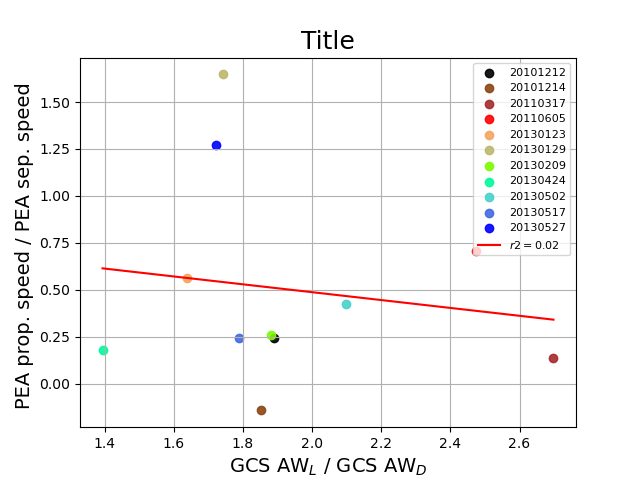
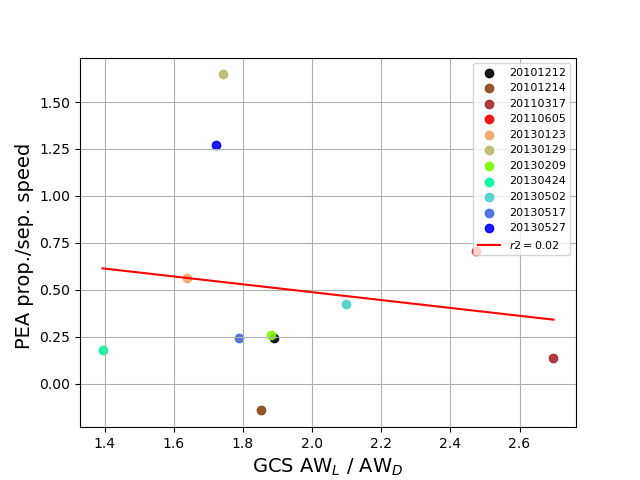
yet more plots from Hebe

Changed region(s): [[0.0, 0.1875, 0.0625, 0.8438], [0.3438, 0.9375, 0.6875, 1.0], [0.4688, 0.0625, 0.5625, 0.125]]

diff --git a/tools/cremades/compare_all_prop_hebe.py b/tools/cremades/compare_all_prop_hebe.py
@@ -113,10 +113,13 @@ os.makedirs(opath, exist_ok=True)
 
 # set requiered plots
 plot_tilt = False
-pea_prop_speed_over_pea_sep_speed_vs_gcs_lat_vel_over_gcs_axial_vel = True
+pea_prop_over_sep_speed_vs_gcs_lat_over_axial_vel = True
 pea_prop_sep_speed_ratio_vs_gcs_awl_awd_ratio = True
 pea_prop_speed_vs_gcs_awl = True
+pea_prop_speed_vs_gcs_lat_speed = True
 pea_sep_speed_vs_gcs_awd = True
+pea_sep_speed_vs_gcs_axial_speed = True
+pea_length_vs_gcs_lat_speed = False
 #lista de CMEs que no deben plotearse
 #poner el numero de ID
 #Si no queremos rechazar ninguna, poner --> None
@@ -204,12 +207,66 @@ if plot_tilt:
     plt.savefig(opath+'/scatter.png')
     plt.close()
 
+#------------------------------------------------------------------------------------------------------
+# plots PEA propagation speed / PEA separation speed VS GCS AW_L vs. GCS AW_D for each date
+if pea_prop_sep_speed_ratio_vs_gcs_awl_awd_ratio:
+    ajuste_lineal3 = True
+
+    df_ar['datetimes'] = pd.to_datetime(df_ar['Date'], format='%d/%m/%Y')
+    all_x=[]
+    all_y=[]
+    colors = ['k','saddlebrown','brown','r','sandybrown','darkkhaki','lawngreen','mediumspringgreen','mediumturquoise','royalblue','b','mediumblue']
+    labels = ['20101212','20101214','20110317','20110605','20130123','20130129','20130209','20130424','20130502','20130517','20130527','20130608']
+    for d in df_ar['datetimes']:
+        d_str = d.strftime('%Y%m%d')
+        x = np.array((df_ar.loc[df_ar['datetimes'] == d, 'gcs_awl']))
+        x /= np.array((df_ar.loc[df_ar['datetimes'] == d, 'gcs_awd']))
+        if len(x) > 1:
+            x = np.nanmean(x)
+        x = float(x)
+
+        y  = np.mean(df_arcades.loc[df_arcades['date'].dt.date == d.date(), 'length fit vel [km/s]'])
+        y /= np.mean(df_arcades.loc[df_arcades['date'].dt.date == d.date(), 'width fit vel [km/s]'])
+        all_x.append(x)
+        all_y.append(y)
+
+    all_x = all_x [0:11]
+    all_y = all_y [0:11]
+
+    all_x_filtered = drop_by_index(all_x,list_rejected_cmes_id)
+    all_y_filtered = drop_by_index(all_y,list_rejected_cmes_id)
+    colors_filtered = drop_by_index(colors,list_rejected_cmes_id)
+    labels_filtered = drop_by_index(labels,list_rejected_cmes_id)
+    #pearson coef and p-value
+    linear_regresion = scipy.stats.linregress(all_x_filtered, all_y_filtered)
+    slope = linear_regresion.slope
+    intercept = linear_regresion.intercept
+    pearson = linear_regresion.rvalue
+    r_square = pearson*pearson
+    p_value = linear_regresion.pvalue
+    stdev = linear_regresion.stderr
+
+    fig,ax = plt.subplots()
+    #ejes y titulo
+    ax.set_xlabel('GCS AW$_L$ / AW$_D$', fontsize=14)
+    ax.set_ylabel('PEA prop./sep. speed ', fontsize=14)
+    ax.set_title(' ', fontsize=18)
+    for contador in range(len(all_x_filtered)):
+        ax.scatter(all_x_filtered[contador],all_y_filtered[contador],c=colors_filtered[contador],label=labels_filtered[contador],alpha=0.9)
+
+    if ajuste_lineal3:
+        x_axis = np.linspace(np.min(all_x_filtered),np.max(all_x_filtered),10)
+        ax.plot(x_axis, intercept + slope*x_axis, 'r', label=f'$r2 = {r_square:.2f}$')
+    ax.legend(loc="upper right", prop={'size': 8})
+    ax.grid(True)
+    plt.savefig(hpath+'/pea_prop_sep_speed_ratio_vs_gcs_awl_awd_ratio')
+    plt.close()
 
 #------------------------------------------------------------------------------------------------------
 # plots PEA propagation speed/PEA separation speed VS. GCS lat vel / gcs axial vel  ---> Done Hebe
 # y vs x
 ajuste_lineal = True
-if pea_prop_speed_over_pea_sep_speed_vs_gcs_lat_vel_over_gcs_axial_vel:
+if pea_prop_over_sep_speed_vs_gcs_lat_over_axial_vel:
     df_ar['datetimes'] = pd.to_datetime(df_ar['Date'], format='%d/%m/%Y')
     all_x=[]
     all_y=[]
@@ -249,9 +306,9 @@ if pea_prop_speed_over_pea_sep_speed_vs_gcs_lat_vel_over_gcs_axial_vel:
 
     fig,ax = plt.subplots()
     #ejes y titulo
-    ax.set_xlabel('GCS lateral (L) speed / GCS axial (D) speed', fontsize=16)
-    ax.set_ylabel('PEA prop. speed / PEA sep. speed', fontsize=16)
-    ax.set_title('Title', fontsize=18)
+    ax.set_xlabel('GCS lateral (L) / axial (D) exp. speed', fontsize=14)
+    ax.set_ylabel('PEA prop. / sep. speed', fontsize=14)
+    ax.set_title(' ', fontsize=18)
     for contador in range(len(all_x_filtered)):
         ax.scatter(all_x_filtered[contador],all_y_filtered[contador],c=colors_filtered[contador],label=labels_filtered[contador],alpha=0.9)
 
@@ -260,7 +317,7 @@ if pea_prop_speed_over_pea_sep_speed_vs_gcs_lat_vel_over_gcs_axial_vel:
         ax.plot(x_axis, intercept + slope*x_axis, 'r', label=f'$r2 = {r_square:.2f}$')
     ax.legend(loc="upper right", prop={'size': 8})
     ax.grid(True)
-    plt.savefig(hpath+'/pea_prop_speed_over_pea_sep_speed_vs_gcs_lat_vel_over_gcs_axial_vel.png')
+    plt.savefig(hpath+'/pea_prop_over_sep_speed_vs_gcs_lat_over_axial_vel.png')
     plt.close()
 
 #------------------------------------------------------------------------------------------------------
@@ -315,6 +372,58 @@ if pea_prop_speed_vs_gcs_awl:
     ax.legend(loc="upper right", prop={'size': 8})
     ax.grid(True)
     plt.savefig(hpath+'/pea_prop_speed_vs_gcs_awl.png')
+    plt.close()
+#------------------------------------------------------------------------------------------------------
+# plots PEA propagation speed vs. GCS lateral (L) speed for each date  --> Done Hebe
+if pea_prop_speed_vs_gcs_lat_speed:
+    ajuste_lineal1 = False
+
+    df_ar['datetimes'] = pd.to_datetime(df_ar['Date'], format='%d/%m/%Y')
+    all_x=[]
+    all_y=[]
+    colors = ['k','saddlebrown','brown','r','sandybrown','darkkhaki','lawngreen','mediumspringgreen','mediumturquoise','royalblue','b','mediumblue']
+    labels = ['20101212','20101214','20110317','20110605','20130123','20130129','20130209','20130424','20130502','20130517','20130527','20130608']
+    for d in df_ar['datetimes']:
+        d_str = d.strftime('%Y%m%d')
+        x = np.array((df_ar.loc[df_ar['datetimes'] == d, 'gcs_lat_vel']))
+        if len(x) > 1:
+            x = np.nanmean(x)
+        x = float(x)
+
+        y  = np.mean(df_arcades.loc[df_arcades['date'].dt.date == d.date(), 'length fit vel [km/s]'])
+        all_x.append(x)
+        all_y.append(y)
+
+    all_x = all_x [0:11]
+    all_y = all_y [0:11]
+
+    all_x_filtered = drop_by_index(all_x,list_rejected_cmes_id)
+    all_y_filtered = drop_by_index(all_y,list_rejected_cmes_id)
+    colors_filtered = drop_by_index(colors,list_rejected_cmes_id)
+    labels_filtered = drop_by_index(labels,list_rejected_cmes_id)
+    #pearson coef and p-value
+    linear_regresion = scipy.stats.linregress(all_x_filtered, all_y_filtered)
+    slope = linear_regresion.slope
+    intercept = linear_regresion.intercept
+    pearson = linear_regresion.rvalue
+    r_square = pearson*pearson
+    p_value = linear_regresion.pvalue
+    stdev = linear_regresion.stderr
+
+    fig,ax = plt.subplots()
+    #ejes y titulo
+    ax.set_xlabel('GCS lateral (L) speed [km s$^{-1}$', fontsize=14)
+    ax.set_ylabel('PEA propagation speed [km s$^{-1}$]', fontsize=14)
+    #ax.set_title('Title', fontsize=18)
+    for contador in range(len(all_x_filtered)):
+        ax.scatter(all_x_filtered[contador],all_y_filtered[contador],c=colors_filtered[contador],label=labels_filtered[contador],alpha=0.9)
+
+    if ajuste_lineal1:
+        x_axis = np.linspace(np.min(all_x_filtered),np.max(all_x_filtered),10)
+        ax.plot(x_axis, intercept + slope*x_axis, 'r', label=f'$r2 = {r_square:.2f}$')
+    ax.legend(loc="upper right", prop={'size': 8})
+    ax.grid(True)
+    plt.savefig(hpath+'/pea_prop_speed_vs_gcs_lat_speed.png')
     plt.close()
 
 #------------------------------------------------------------------------------------------------------
@@ -372,9 +481,9 @@ if pea_sep_speed_vs_gcs_awd:
     plt.close()
 
 #------------------------------------------------------------------------------------------------------
-# plots PEA propagation speed / PEA separation speed VS GCS AW_L vs. GCS AW_D for each date
-if pea_prop_sep_speed_ratio_vs_gcs_awl_awd_ratio:
-    ajuste_lineal3 = True
+# plots PEA separation speed vs. GCS axial (d) speed for each date ---> Done hebe
+if pea_sep_speed_vs_gcs_axial_speed:
+    ajuste_lineal2 = False
 
     df_ar['datetimes'] = pd.to_datetime(df_ar['Date'], format='%d/%m/%Y')
     all_x=[]
@@ -383,14 +492,13 @@ if pea_prop_sep_speed_ratio_vs_gcs_awl_awd_ratio:
     labels = ['20101212','20101214','20110317','20110605','20130123','20130129','20130209','20130424','20130502','20130517','20130527','20130608']
     for d in df_ar['datetimes']:
         d_str = d.strftime('%Y%m%d')
-        x = np.array((df_ar.loc[df_ar['datetimes'] == d, 'gcs_awl']))
-        x /= np.array((df_ar.loc[df_ar['datetimes'] == d, 'gcs_awd']))
+        x = np.array((df_ar.loc[df_ar['datetimes'] == d, 'gcs_axial_vel']))
+
         if len(x) > 1:
             x = np.nanmean(x)
         x = float(x)
 
-        y  = np.mean(df_arcades.loc[df_arcades['date'].dt.date == d.date(), 'length fit vel [km/s]'])
-        y /= np.mean(df_arcades.loc[df_arcades['date'].dt.date == d.date(), 'width fit vel [km/s]'])
+        y  = np.mean(df_arcades.loc[df_arcades['date'].dt.date == d.date(), 'width fit vel [km/s]'])
         all_x.append(x)
         all_y.append(y)
 
@@ -412,16 +520,70 @@ if pea_prop_sep_speed_ratio_vs_gcs_awl_awd_ratio:
 
     fig,ax = plt.subplots()
     #ejes y titulo
-    ax.set_xlabel('GCS AW$_L$ / GCS AW$_D$', fontsize=14)
-    ax.set_ylabel('PEA prop. speed / PEA sep. speed ', fontsize=14)
-    ax.set_title('Title', fontsize=18)
+    ax.set_xlabel('GCS axial speed [km s$^{-1}$', fontsize=14)
+    ax.set_ylabel('PEA separation speed [km s$^{-1}$]', fontsize=14)
+    ax.set_title('', fontsize=18)
     for contador in range(len(all_x_filtered)):
         ax.scatter(all_x_filtered[contador],all_y_filtered[contador],c=colors_filtered[contador],label=labels_filtered[contador],alpha=0.9)
 
-    if ajuste_lineal3:
+    if ajuste_lineal2:
         x_axis = np.linspace(np.min(all_x_filtered),np.max(all_x_filtered),10)
         ax.plot(x_axis, intercept + slope*x_axis, 'r', label=f'$r2 = {r_square:.2f}$')
-    ax.legend(loc="upper right", prop={'size': 8})
+    ax.legend(loc="lower right", prop={'size': 8})
     ax.grid(True)
-    plt.savefig(hpath+'/pea_prop_sep_speed_ratio_vs_gcs_awl_awd_ratio')
+    plt.savefig(hpath+'/pea_sep_speed_vs_gcs_axial_speed.png')
+    plt.close()
+
+    #------------------------------------------------------------------------------------------------------
+# plots PEA mean length vs. GCS lateral (L) speed for each date ---> Done hebe
+if pea_length_vs_gcs_lat_speed:
+    ajuste_lineal2 = False
+
+    df_ar['datetimes'] = pd.to_datetime(df_ar['Date'], format='%d/%m/%Y')
+    all_x=[]
+    all_y=[]
+    colors = ['k','saddlebrown','brown','r','sandybrown','darkkhaki','lawngreen','mediumspringgreen','mediumturquoise','royalblue','b','mediumblue']
+    labels = ['20101212','20101214','20110317','20110605','20130123','20130129','20130209','20130424','20130502','20130517','20130527','20130608']
+    for d in df_ar['datetimes']:
+        d_str = d.strftime('%Y%m%d')
+        x = np.array((df_ar.loc[df_ar['datetimes'] == d, 'gcs_lat_vel']))  #cambiar
+
+        if len(x) > 1:
+            x = np.nanmean(x)
+        x = float(x)
+
+        y  = np.mean(df_arcades.loc[df_arcades['date'].dt.date == d.date(), 'width fit vel [km/s]'])#cambiar
+        all_x.append(x)
+        all_y.append(y)
+
+    all_x = all_x [0:11]
+    all_y = all_y [0:11]
+
+    all_x_filtered = drop_by_index(all_x,list_rejected_cmes_id)
+    all_y_filtered = drop_by_index(all_y,list_rejected_cmes_id)
+    colors_filtered = drop_by_index(colors,list_rejected_cmes_id)
+    labels_filtered = drop_by_index(labels,list_rejected_cmes_id)
+    #pearson coef and p-value
+    linear_regresion = scipy.stats.linregress(all_x_filtered, all_y_filtered)
+    slope = linear_regresion.slope
+    intercept = linear_regresion.intercept
+    pearson = linear_regresion.rvalue
+    r_square = pearson*pearson
+    p_value = linear_regresion.pvalue
+    stdev = linear_regresion.stderr
+
+    fig,ax = plt.subplots()
+    #ejes y titulo
+    ax.set_xlabel('GCS axial speed [km s$^{-1}$', fontsize=14)
+    ax.set_ylabel('PEA separation speed [km s$^{-1}$]', fontsize=14)
+    ax.set_title('', fontsize=18)
+    for contador in range(len(all_x_filtered)):
+        ax.scatter(all_x_filtered[contador],all_y_filtered[contador],c=colors_filtered[contador],label=labels_filtered[contador],alpha=0.9)
+
+    if ajuste_lineal2:
+        x_axis = np.linspace(np.min(all_x_filtered),np.max(all_x_filtered),10)
+        ax.plot(x_axis, intercept + slope*x_axis, 'r', label=f'$r2 = {r_square:.2f}$')
+    ax.legend(loc="lower right", prop={'size': 8})
+    ax.grid(True)
+    plt.savefig(hpath+'/pea_length_vs_gcs_lat_speed.png')
     plt.close()
